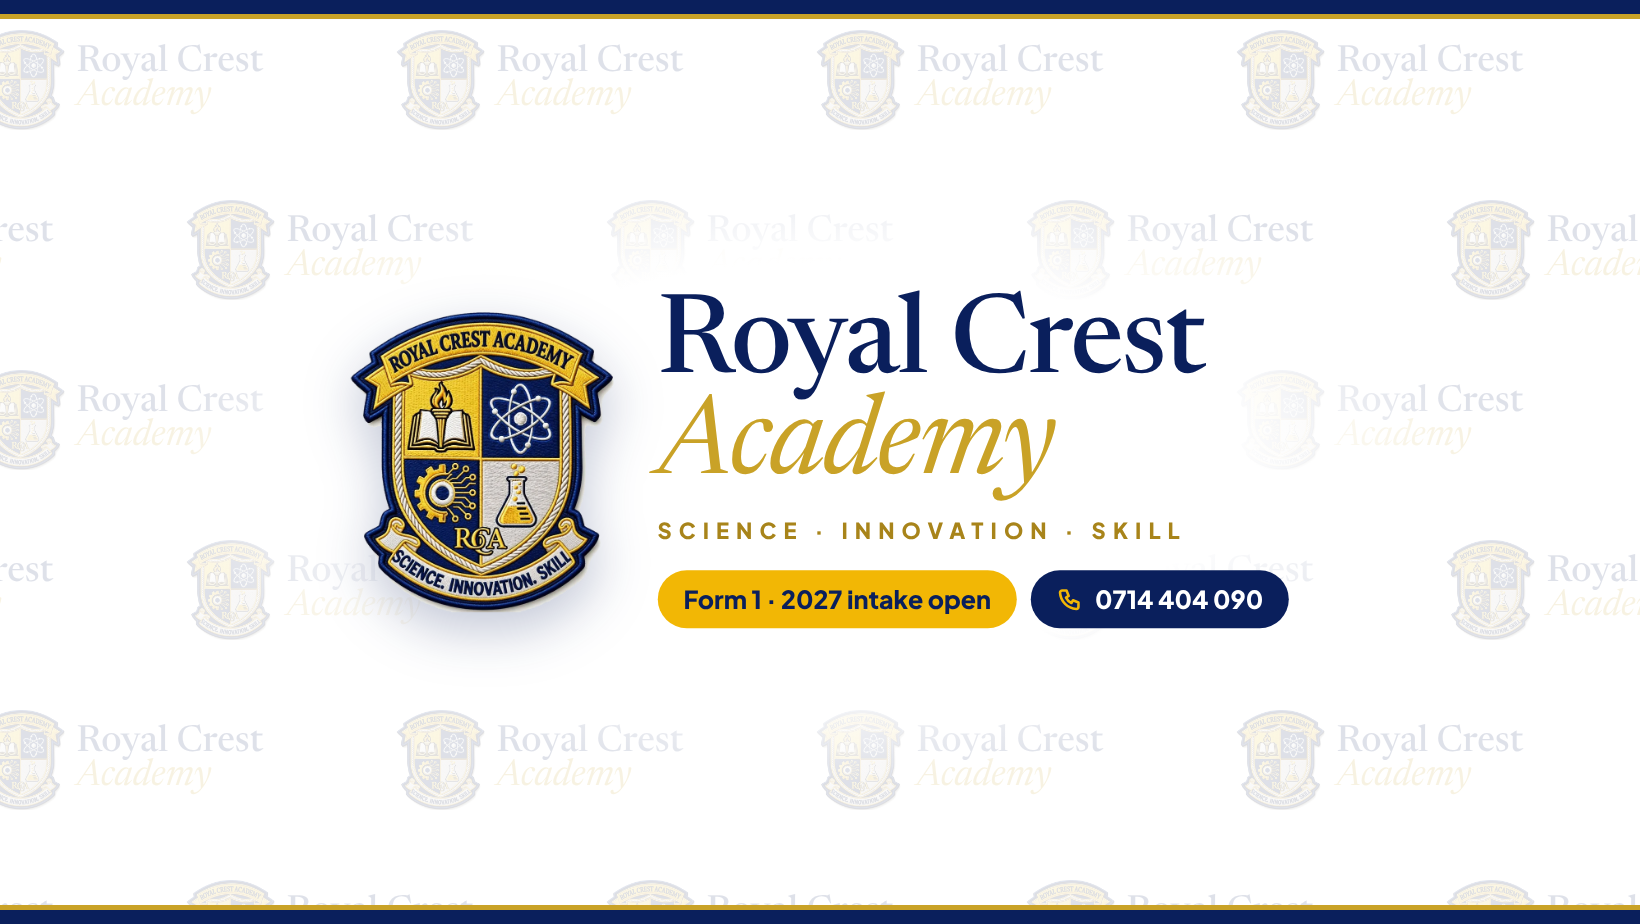
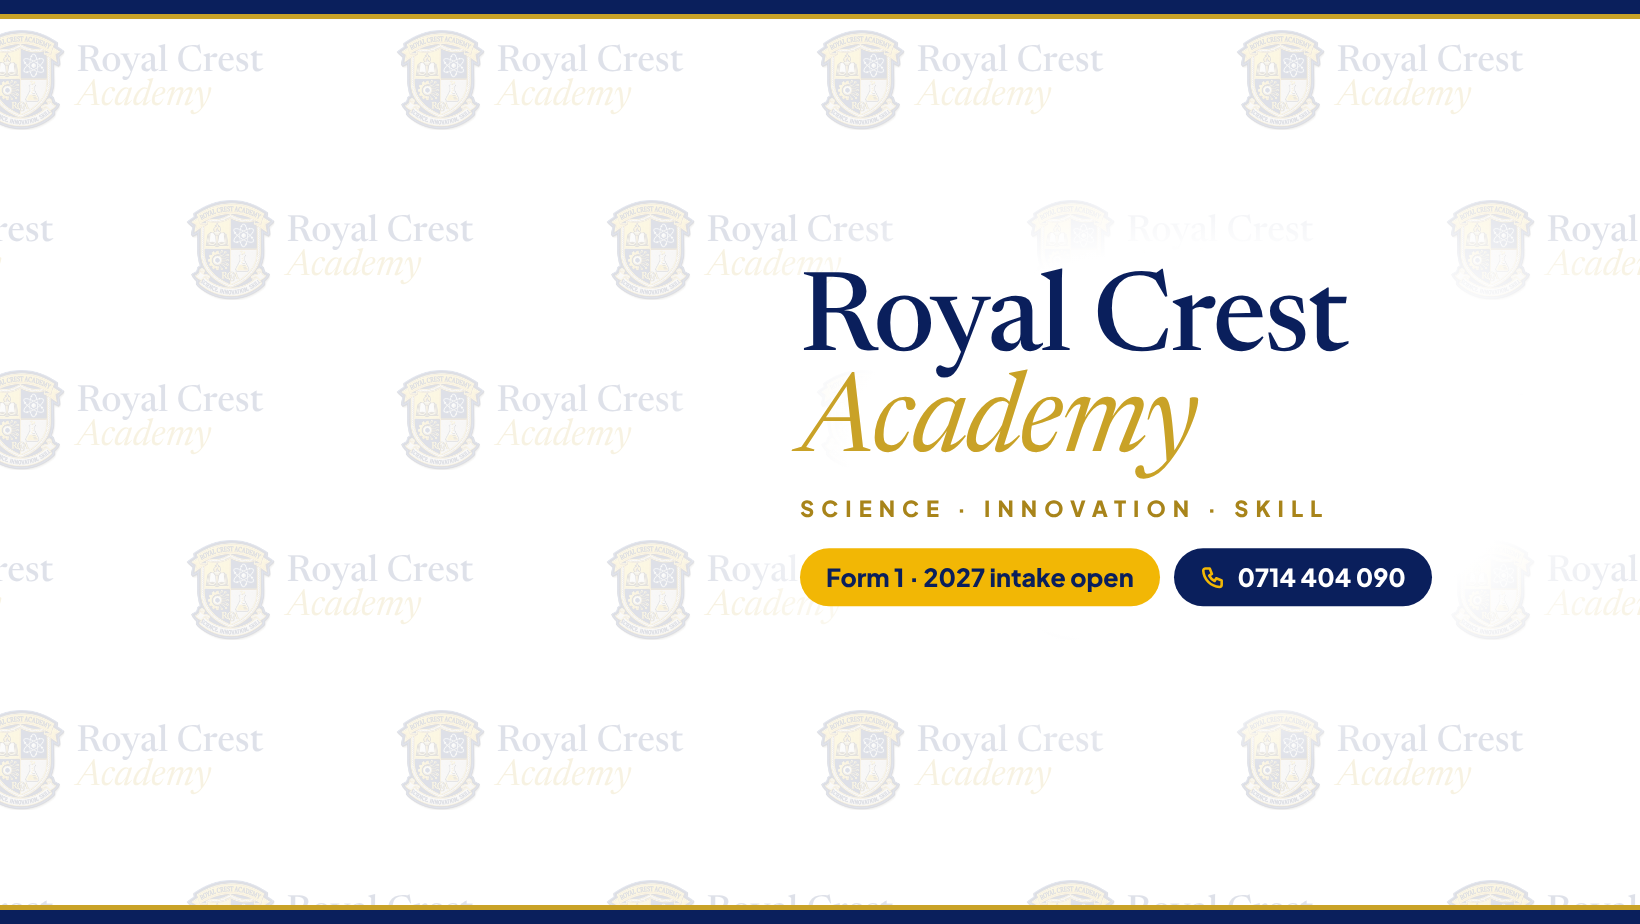
Facebook cover: keep text clear of the mobile profile photo
Claude-Session: https://claude.ai/code/session_01HHSSeuzikgdkEiDRBqXNst

Changed region(s): [[0.2177, 0.2727, 0.9329, 0.697], [0.8396, 0.4242, 0.9329, 0.4848], [0.6841, 0.2727, 0.7152, 0.303]]

diff --git a/studio/social-extra/backdrop/facebook-cover.html b/studio/social-extra/backdrop/facebook-cover.html
@@ -2,7 +2,8 @@
 <title>Royal Crest Facebook cover</title>
 <style>
 /* Facebook Page cover, 1640 × 924. Mobile shows all of it; desktop crops to the middle 1640 × 624,
-   so everything that matters sits inside the dashed safe band (y 150–774). */
+   so everything that matters sits inside the dashed safe band (y 150–774). On phones the round profile
+   photo (the crest) covers the bottom-left, so the text sits in the right half. */
 @font-face{font-family:RcSerif;font-weight:400 700;src:url(../../../assets/fonts/newsreader-latin.woff2) format("woff2")}
 @font-face{font-family:RcSerif;font-style:italic;font-weight:400 700;src:url(../../../assets/fonts/newsreader-italic-latin.woff2) format("woff2")}
 @font-face{font-family:RcSans;font-weight:200 800;src:url(../../../assets/fonts/plus-jakarta-sans-latin.woff2) format("woff2")}
@@ -13,8 +14,8 @@ html,body{margin:0;background:#fff}
 .u{position:absolute;display:flex;align-items:center;gap:12px;transform:translate(-50%,-50%);white-space:nowrap}
 .u img{height:100px} .u b{display:block;font:500 37px/.92 RcSerif,serif;color:var(--navy)} .u b em{display:block;font-style:italic;color:var(--gold)}
 /* white glow behind the lockup so the wall reads as texture */
-#glow{position:absolute;left:50%;top:50%;width:1300px;height:640px;transform:translate(-50%,-50%);background:radial-gradient(closest-side,#fff 62%,rgba(255,255,255,0))}
-#main{position:absolute;left:50%;top:462px;transform:translate(-50%,-50%);display:flex;align-items:center;gap:44px;white-space:nowrap}
+#glow{position:absolute;left:1190px;top:450px;width:1100px;height:640px;transform:translate(-50%,-50%);background:radial-gradient(closest-side,#fff 62%,rgba(255,255,255,0))}
+#main{position:absolute;left:800px;top:440px;transform:translateY(-50%);display:flex;align-items:center;gap:44px;white-space:nowrap}
 #main>img{height:300px;filter:drop-shadow(0 18px 26px rgba(10,31,92,.25))}
 #main h1{margin:0;font:500 112px/.9 RcSerif,serif;color:var(--navy);letter-spacing:-.015em}
 #main h1 em{font-style:italic;color:var(--gold)}
@@ -24,11 +25,12 @@ html,body{margin:0;background:#fff}
 #main .pill.n{background:var(--navy);color:#fff} #main .pill.y{background:var(--gold2);color:var(--navy)}
 #main .pill svg{width:26px;height:26px}
 .bar{position:absolute;left:0;right:0;height:14px;background:var(--navy)} .bar.t{top:0;border-bottom:5px solid var(--gold)} .bar.b{bottom:0;border-top:5px solid var(--gold)}
+body.guides #cv::before{content:"";position:absolute;left:35px;top:360px;width:740px;height:740px;border-radius:50%;background:rgba(220,40,40,.25);z-index:9}
 body.guides #cv::after{content:"";position:absolute;left:0;right:0;top:150px;height:624px;outline:3px dashed #e33;pointer-events:none}
 </style></head><body>
 <div id="cv">
   <div id="wall"></div><div id="glow"></div>
-  <div id="main"><img src="../../assets/brand/crest-640.webp" alt="">
+  <div id="main">
     <div><h1>Royal Crest<br><em>Academy</em></h1>
       <div class="tag">SCIENCE · INNOVATION · SKILL</div>
       <div class="row"><div class="pill y">Form 1 · 2027 intake open</div>
